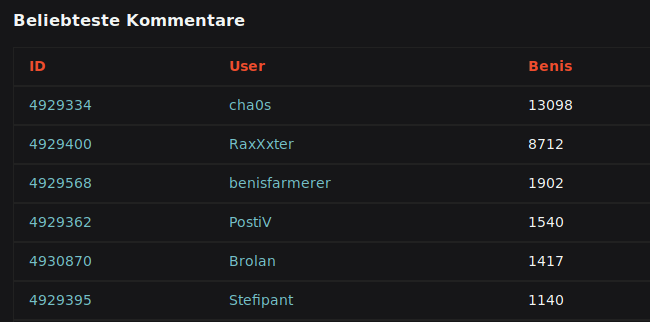
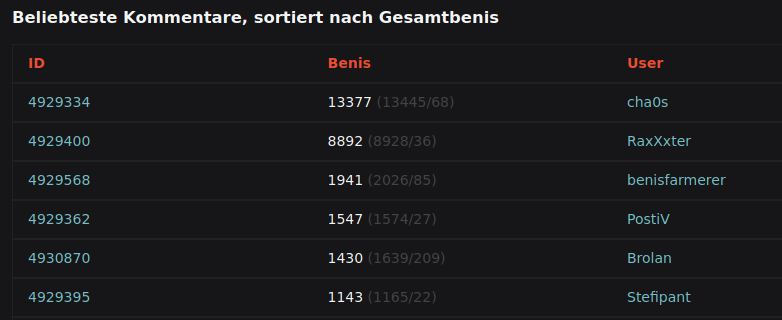
ReadMe ergänzt

diff --git a/README.md b/README.md
@@ -20,14 +20,20 @@
 ### Tags nach Confidence mit rausgevoteten Tags
 ![Tags nach Confidence mit rausgevoteten Tags](https://raw.githubusercontent.com/RundesBalli/pr0gramm-poststats/master/Screenshots/3.png)
 
-### Beliebteste Kommentare
-![Beliebteste Kommentare](https://raw.githubusercontent.com/RundesBalli/pr0gramm-poststats/master/Screenshots/4.png)
+### Beliebteste Kommentare, sortiert nach Gesamtbenis
+![Beliebteste Kommentare, sortiert nach Gesamtbenis](https://raw.githubusercontent.com/RundesBalli/pr0gramm-poststats/master/Screenshots/4.png)
 
-### Unbeliebteste Kommentare
-![Unbeliebteste Kommentare](https://raw.githubusercontent.com/RundesBalli/pr0gramm-poststats/master/Screenshots/5.png)
+### Unbeliebteste Kommentare, sortiert nach Gesamtbenis
+![Unbeliebteste Kommentare, sortiert nach Gesamtbenis](https://raw.githubusercontent.com/RundesBalli/pr0gramm-poststats/master/Screenshots/5.png)
+
+### Kommentare mit dem meisten Plus / Minus
+![Kommentare mit dem meisten Plus / Minus](https://raw.githubusercontent.com/RundesBalli/pr0gramm-poststats/master/Screenshots/8.png)
 
 ### User mit dem meisten Score auf Kommentare (in Summe)
 ![User mit dem meisten Score auf Kommentare (in Summe)](https://raw.githubusercontent.com/RundesBalli/pr0gramm-poststats/master/Screenshots/6.png)
+
+### User mit dem wenigsten Score auf Kommentare (in Summe)
+![User mit dem wenigsten Score auf Kommentare (in Summe)](https://raw.githubusercontent.com/RundesBalli/pr0gramm-poststats/master/Screenshots/9.png)
 
 ### User mit den meisten Kommentaren
 ![User mit den meisten Kommentaren](https://raw.githubusercontent.com/RundesBalli/pr0gramm-poststats/master/Screenshots/7.png)
